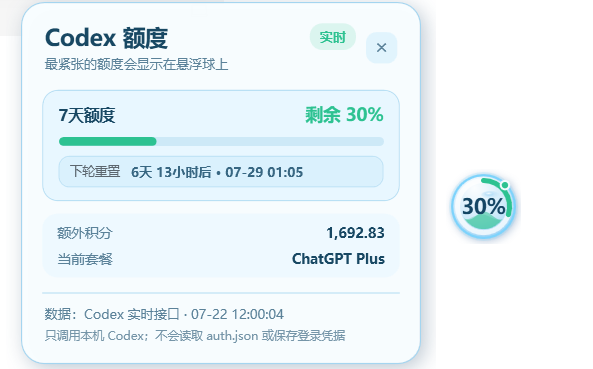
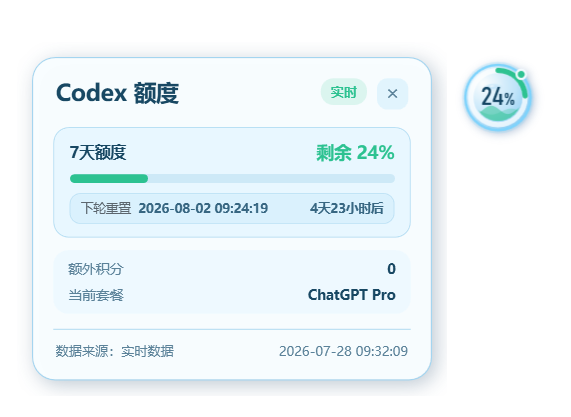
Prepare TokenOrb v1.5.3 release

diff --git a/macos/Sources/TokenOrbCore/AppIdentity.swift b/macos/Sources/TokenOrbCore/AppIdentity.swift
@@ -5,8 +5,8 @@ public enum AppIdentity {
     public static let bundleIdentifier = "com.chenxulin.TokenOrb"
     public static let watcherBundleIdentifier = "com.chenxulin.TokenOrb.Watcher"
     public static let watcherLaunchArgument = "--follow-codex-launch"
-    public static let displayVersion = "v1.5.2"
-    public static let protocolVersion = "1.5.2"
+    public static let displayVersion = "v1.5.3"
+    public static let protocolVersion = "1.5.3"
     public static let publisher = "chenxulin"
     public static let releaseDateText = "发布于 2026年7月25日"
 }

diff --git a/macos/Sources/TokenOrbCoreChecks/main.swift b/macos/Sources/TokenOrbCoreChecks/main.swift
@@ -215,8 +215,8 @@ func checkAppIdentity() {
         AppIdentity.watcherBundleIdentifier == "com.chenxulin.TokenOrb.Watcher",
         "watcher bundle identifier"
     )
-    expect(AppIdentity.displayVersion == "v1.5.2", "display version")
-    expect(AppIdentity.protocolVersion == "1.5.2", "protocol version")
+    expect(AppIdentity.displayVersion == "v1.5.3", "display version")
+    expect(AppIdentity.protocolVersion == "1.5.3", "protocol version")
     expect(AppIdentity.publisher == "chenxulin", "publisher")
 }
 

diff --git a/src/MainWindow.cs b/src/MainWindow.cs
@@ -17,6 +17,7 @@ namespace CodexQuotaBall
     {
         private readonly QuotaBallVisual ball;
         private readonly DetailWindow detail;
+        private AppearanceWindow appearanceWindow;
         private readonly bool demoMode;
         private readonly CodexProcessMonitor processMonitor;
         private readonly DispatcherTimer secondTimer;
@@ -404,7 +405,24 @@ namespace CodexQuotaBall
 
         private void OpenAppearanceWindow()
         {
-            bool restoreTopmost = Topmost;
+            AppearanceWindow openWindow = appearanceWindow;
+            if (openWindow != null)
+            {
+                try
+                {
+                    if (openWindow.WindowState == WindowState.Minimized)
+                    {
+                        openWindow.WindowState = WindowState.Normal;
+                    }
+                    openWindow.Activate();
+                }
+                catch (Exception exception)
+                {
+                    ReportAppearanceError("无法激活外观设置：", exception);
+                }
+                return;
+            }
+
             try
             {
                 if (detail.IsVisible)
@@ -412,33 +430,67 @@ namespace CodexQuotaBall
                     detail.Hide();
                 }
 
-                Topmost = false;
+                // Keep this window unowned and modeless. An owned window follows
+                // the topmost orb's Z-order and would stay above other apps.
                 AppearanceWindow window = new AppearanceWindow(appearance);
-                window.Owner = this;
-                bool? accepted = window.ShowDialog();
-                if (accepted == true)
-                {
-                    ApplyAppearance(
-                        window.SelectedSize,
-                        window.SelectedColor,
-                        window.SelectedTextStyle,
-                        window.SelectedAnimationFrameRate,
-                        true);
-                }
+                window.Closed += OnAppearanceWindowClosed;
+                appearanceWindow = window;
+                window.Show();
             }
             catch (Exception exception)
             {
-                AppSettings.LogError(exception);
-                MessageBox.Show(
-                    "无法打开外观设置：" + exception.Message,
-                    AppIdentity.ProductName,
-                    MessageBoxButton.OK,
-                    MessageBoxImage.Warning);
+                AppearanceWindow failedWindow = appearanceWindow;
+                appearanceWindow = null;
+                if (failedWindow != null)
+                {
+                    failedWindow.Closed -= OnAppearanceWindowClosed;
+                    try { failedWindow.Close(); } catch { }
+                }
+                ReportAppearanceError("无法打开外观设置：", exception);
             }
-            finally
+        }
+
+        private void OnAppearanceWindowClosed(object sender, EventArgs args)
+        {
+            AppearanceWindow window = sender as AppearanceWindow;
+            if (window == null)
             {
-                Topmost = restoreTopmost;
+                return;
             }
+
+            window.Closed -= OnAppearanceWindowClosed;
+            if (ReferenceEquals(appearanceWindow, window))
+            {
+                appearanceWindow = null;
+            }
+            if (!window.WasAccepted)
+            {
+                return;
+            }
+
+            try
+            {
+                ApplyAppearance(
+                    window.SelectedSize,
+                    window.SelectedColor,
+                    window.SelectedTextStyle,
+                    window.SelectedAnimationFrameRate,
+                    true);
+            }
+            catch (Exception exception)
+            {
+                ReportAppearanceError("无法保存外观设置：", exception);
+            }
+        }
+
+        private static void ReportAppearanceError(string prefix, Exception exception)
+        {
+            AppSettings.LogError(exception);
+            MessageBox.Show(
+                prefix + exception.Message,
+                AppIdentity.ProductName,
+                MessageBoxButton.OK,
+                MessageBoxImage.Warning);
         }
 
         private void ApplyAppearance(

diff --git a/src/AppearanceWindow.cs b/src/AppearanceWindow.cs
@@ -53,9 +53,9 @@ namespace CodexQuotaBall
             ResizeMode = ResizeMode.NoResize;
             AllowsTransparency = true;
             Background = Brushes.Transparent;
-            ShowInTaskbar = false;
+            ShowInTaskbar = true;
             Topmost = false;
-            WindowStartupLocation = WindowStartupLocation.CenterOwner;
+            WindowStartupLocation = WindowStartupLocation.CenterScreen;
             FontFamily = new FontFamily("Microsoft YaHei UI");
             UseLayoutRounding = true;
             SnapsToDevicePixels = true;
@@ -237,7 +237,7 @@ namespace CodexQuotaBall
             actions.ColumnDefinitions.Add(new ColumnDefinition { Width = new GridLength(10) });
             actions.ColumnDefinitions.Add(new ColumnDefinition { Width = GridLength.Auto });
             Button cancel = AppearanceUi.CreateActionButton("取消", false, 96);
-            cancel.Click += delegate { DialogResult = false; };
+            cancel.Click += delegate { Close(); };
             Grid.SetColumn(cancel, 1);
             actions.Children.Add(cancel);
             Button save = AppearanceUi.CreateActionButton("保存", true, 132);
@@ -265,6 +265,8 @@ namespace CodexQuotaBall
         public QuotaTextStyle SelectedTextStyle { get; private set; }
 
         public int SelectedAnimationFrameRate { get; private set; }
+
+        public bool WasAccepted { get; private set; }
 
         private Border CreatePreviewCard()
         {
@@ -714,14 +716,15 @@ namespace CodexQuotaBall
             SelectedColor = selectedColor;
             SelectedTextStyle = selectedTextStyle;
             SelectedAnimationFrameRate = selectedAnimationFrameRate;
-            DialogResult = true;
+            WasAccepted = true;
+            Close();
         }
 
         private void OnWindowKeyDown(object sender, KeyEventArgs args)
         {
             if (args.Key == Key.Escape)
             {
-                DialogResult = false;
+                Close();
                 args.Handled = true;
             }
         }

diff --git a/src/AppIdentity.cs b/src/AppIdentity.cs
@@ -4,8 +4,8 @@ using System.Reflection;
 [assembly: AssemblyProduct("TokenOrb")]
 [assembly: AssemblyCompany("chenxulin")]
 [assembly: AssemblyCopyright("Copyright © chenxulin")]
-[assembly: AssemblyVersion("1.5.2.0")]
-[assembly: AssemblyFileVersion("1.5.2.0")]
+[assembly: AssemblyVersion("1.5.3.0")]
+[assembly: AssemblyFileVersion("1.5.3.0")]
 
 namespace CodexQuotaBall
 {
@@ -13,8 +13,8 @@ namespace CodexQuotaBall
     {
         public const string ProductName = "TokenOrb";
         public const string ExecutableFileName = "TokenOrb.exe";
-        public const string DisplayVersion = "v1.5.2";
-        public const string ProtocolVersion = "1.5.2";
+        public const string DisplayVersion = "v1.5.3";
+        public const string ProtocolVersion = "1.5.3";
         public const string Publisher = "chenxulin";
         public const string ReleaseDateText = "发布于 2026年7月25日";
     }

diff --git a/src/ParserTests.cs b/src/ParserTests.cs
@@ -300,8 +300,8 @@ namespace CodexQuotaBall
         {
             Assert(AppIdentity.ProductName == "TokenOrb", "Product name should be TokenOrb");
             Assert(AppIdentity.ExecutableFileName == "TokenOrb.exe", "Executable name should be TokenOrb.exe");
-            Assert(AppIdentity.DisplayVersion == "v1.5.2", "Display version should be v1.5.2");
-            Assert(AppIdentity.ProtocolVersion == "1.5.2", "Protocol version should be semantic v1.5.2");
+            Assert(AppIdentity.DisplayVersion == "v1.5.3", "Display version should be v1.5.3");
+            Assert(AppIdentity.ProtocolVersion == "1.5.3", "Protocol version should be semantic v1.5.3");
             Assert(AppIdentity.Publisher == "chenxulin", "Publisher should be chenxulin");
         }
 

diff --git a/README.md b/README.md
@@ -1,20 +1,25 @@
-# TokenOrb v1.5.2
+# TokenOrb v1.5.3
 
-Token Orb 是一个实时监控codex剩余额度的悬浮球小软件。
+TokenOrb 是一个实时监控 Codex 剩余额度的悬浮球小软件。
 
 ## Windows 安装
 
 1. 从右侧 Release 下载 `TokenOrb-Windows.msi`（推荐）进行安装，也可直接运行免安装的 `TokenOrb-Windows.exe`。
-2. 启动 Token Orb。
-3. Token Orb 会在 Codex 桌面应用启动时出现，并在 Codex 关闭后退出悬浮球界面。
+2. 启动 TokenOrb。
+3. TokenOrb 会在 Codex 桌面应用启动时出现，并在 Codex 关闭后退出悬浮球界面。
 
 ## macOS 安装
 
-1. 从右侧 Release 下载并打开 `TokenOrb-macOS.dmg`。
-2. 将 `Token Orb.app` 拖入“Applications”后启动。
-3. 当前安装包使用 ad-hoc 签名、尚未公证；若 macOS 提示无法验证开发者，请在 Finder 中按住 Control 点击应用并选择“打开”。
+适用于 macOS 13 及更新版本，支持 Apple Silicon 和 Intel Mac。
 
-macOS 客户端支持 Apple Silicon 与 Intel、菜单栏、桌面悬浮球、实时额度、外观设置、账号切换重连和跟随 Codex 启动/退出。
+1. 从右侧 Release 下载 `TokenOrb-macOS.dmg`，下载完成后双击打开。
+2. 在安装窗口中，将 `TokenOrb` 拖到“Applications（应用程序）”文件夹。请不要直接在 DMG 中运行。
+3. 打开 Finder 的“应用程序”文件夹，双击 `TokenOrb`。首次打开时，macOS 会阻止应用运行；看到提示后关闭提示窗口即可。
+4. 点击屏幕左上角的苹果菜单，依次打开“系统设置 → 隐私与安全性”。
+5. 向下找到“安全性”区域，找到与 `TokenOrb` 相关的拦截提示，点击旁边的放行按钮（通常显示为“仍要打开”），然后使用 Touch ID 或输入 Mac 登录密码，并再次确认打开。
+6. 返回“应用程序”文件夹启动 `TokenOrb`。系统会记住这次选择，以后可以直接双击打开。仅第一次安装需要手动允许。
+
+macOS 客户端支持 Apple Silicon 与 Intel、菜单栏、桌面悬浮球、实时额度、外观设置、账号切换重连和进程级跟随 Codex 启动/退出。轻量 watcher 在等待期间保留菜单栏诊断入口。
 
 ## 界面预览
 #### 1. 悬浮球

diff --git a/RELEASE_NOTES.md b/RELEASE_NOTES.md
@@ -1,4 +1,14 @@
-# TokenOrb v1.5.2 发布说明
+# TokenOrb v1.5.3 发布说明
+
+## 2026-07-28 v1.5.3 更新
+
+- macOS 应用包、系统进程和安装显示名称统一为 `TokenOrb`，应用包更名为 `TokenOrb.app`。
+- 新增嵌套轻量 watcher：Codex 启动时拉起 TokenOrb 主应用，Codex 退出后主应用进程同步退出。
+- 等待 Codex 时由 watcher 保留菜单栏入口，并提供立即检查、重新打开和诊断日志入口。
+- 使用 `NSWorkspace` 启动/退出通知即时检测，保留 2 秒扫描兜底，并记录 Codex 候选进程与状态变化。
+- 精确 Bundle ID `com.openai.codex` 不再受 Activation Policy 限制，避免 LaunchServices 状态导致误判。
+- Windows 外观设置改为可从任务栏切换的非模态独立窗口；重复打开时激活现有窗口，不再被置顶悬浮球压在其他应用之上。
+- 更新 Windows 界面截图，并补充未公证 macOS 应用的首次放行步骤。
 
 ## 2026-07-27 补充更新
 
@@ -44,8 +54,8 @@
 
 ### macOS
 
-- 下载 `TokenOrb-macOS.dmg`，打开后将 `Token Orb.app` 拖入 Applications。
-- 当前 macOS 包采用 ad-hoc 签名、尚未进行 Apple 公证。若首次启动提示无法验证开发者，请在 Finder 中按住 Control 点击应用并选择“打开”。
+- 下载 `TokenOrb-macOS.dmg`，打开后将 `TokenOrb` 拖入“Applications（应用程序）”文件夹。
+- 当前 macOS 包尚未经过 Apple 公证。首次启动被阻止后，请前往“系统设置 → 隐私与安全性”，在“安全性”区域允许打开 `TokenOrb`；完整步骤请查看 README 中的“macOS 安装”。
 
 ## 源码与校验
 
@@ -54,4 +64,4 @@
 - Windows 校验：`TokenOrb-Windows.sha256`
 - macOS 校验：`TokenOrb-macOS.sha256`
 
-完整变更：[v1.5.1...v1.5.2](https://github.com/chenxulin/TokenOrb/compare/v1.5.1...v1.5.2)
+完整变更：[v1.5.2...v1.5.3](https://github.com/chenxulin/TokenOrb/compare/v1.5.2...v1.5.3)

diff --git a/macos/README.md b/macos/README.md
@@ -5,11 +5,27 @@ Swift、AppKit 和 Swift Package Manager，不依赖第三方库。
 
 ## 安装
 
-从 GitHub Release 下载并打开 `TokenOrb-macOS.dmg`，将 `TokenOrb.app` 拖入
-“Applications”。发布包同时支持 Apple Silicon 与 Intel。
+适用于 macOS 13 及更新版本，发布包同时支持 Apple Silicon 和 Intel Mac。
 
-当前安装包使用 ad-hoc 签名、尚未公证。若 macOS 提示无法验证开发者，请在
-Finder 中按住 Control 点击应用并选择“打开”。
+1. 从 GitHub Release 下载 `TokenOrb-macOS.dmg`，下载完成后双击打开。
+2. 在安装窗口中，将 `TokenOrb` 拖到“Applications（应用程序）”文件夹。请不要
+   直接在 DMG 中运行。
+3. 打开 Finder 的“应用程序”文件夹，双击 `TokenOrb`。首次打开时，macOS 会阻止
+   应用运行；看到提示后关闭提示窗口即可。
+4. 点击屏幕左上角的苹果菜单，依次打开“系统设置 → 隐私与安全性”。
+5. 向下找到“安全性”区域，找到与 `TokenOrb` 相关的拦截提示，点击旁边的放行
+   按钮（通常显示为“仍要打开”），然后使用 Touch ID 或输入 Mac 登录密码，并
+   再次确认打开。
+6. 返回“应用程序”文件夹启动 `TokenOrb`。系统会记住这次选择，以后可以直接
+   双击打开。
+
+当前版本尚未经过 Apple 公证，因此首次安装需要手动允许一次。
+
+### 常见问题
+
+- **找不到放行按钮：**返回“应用程序”文件夹，再双击一次 `TokenOrb`，然后重新
+  打开“隐私与安全性”。
+- **放行后没有出现悬浮球：**`TokenOrb` 默认跟随 Codex 运行，请先启动 Codex。
 
 ## 功能
 
